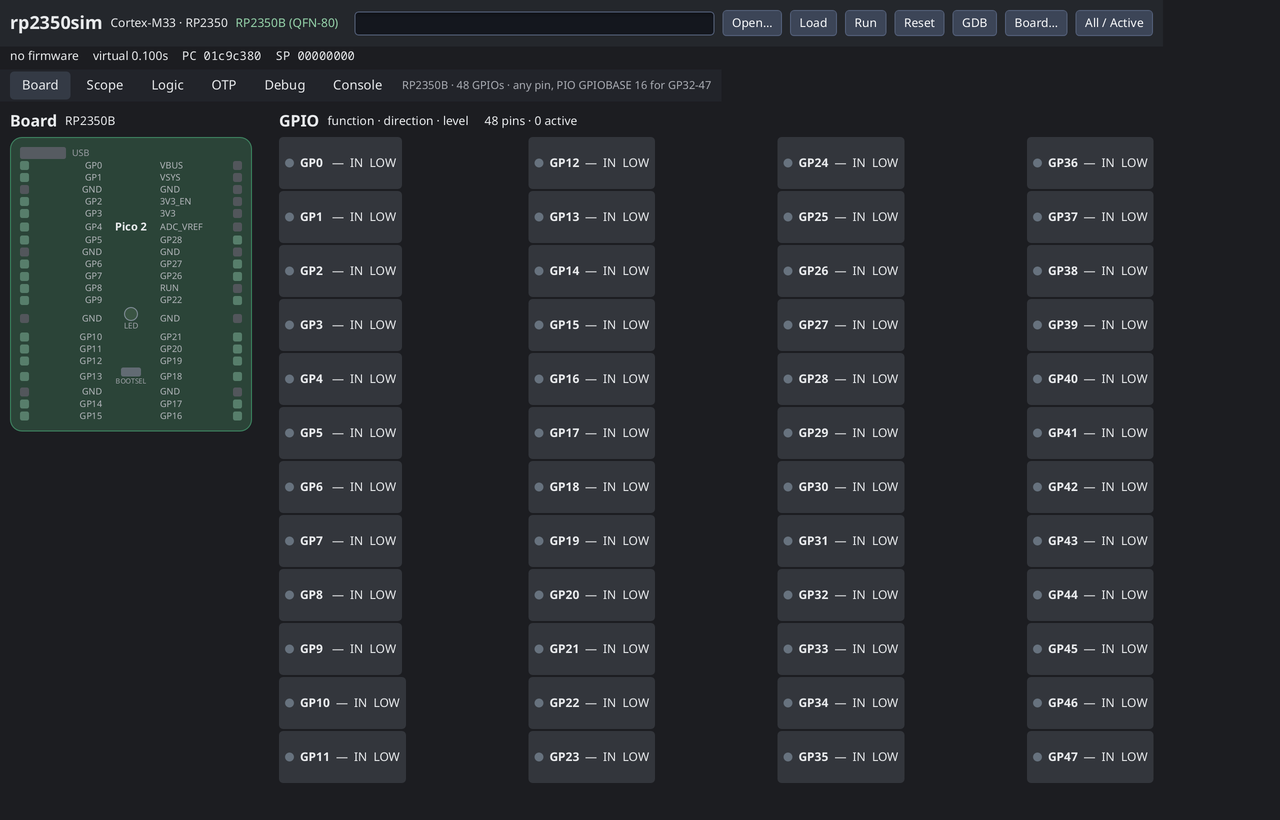
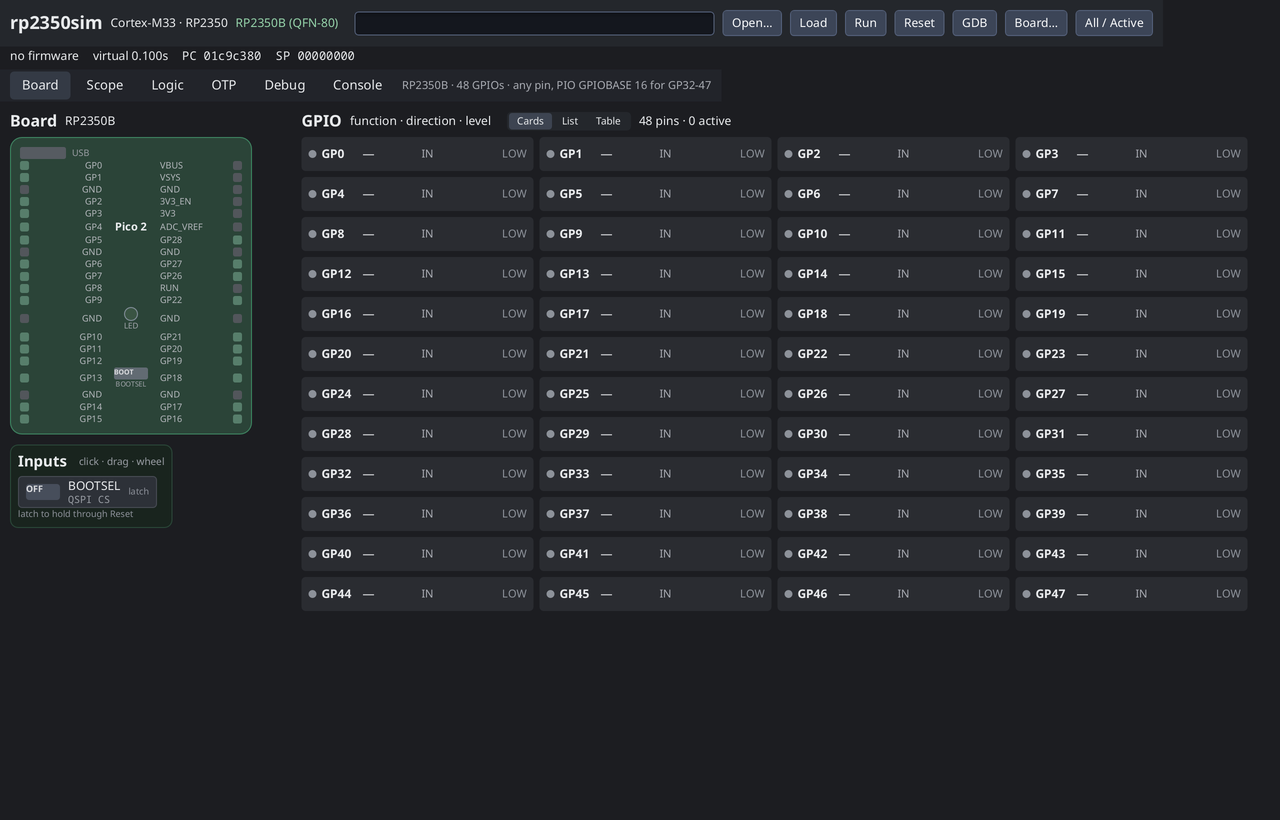
docs: refresh every guide screenshot
Regenerate all docs images with the uniform Cards GPIO layout and the
current tabs. The render script now also covers the picker, LCD, sensors,
WS2812, PSRAM, OTP, debug, bus, Ethernet and Wi-Fi views, runs from the
repo root so toolbar paths stay relative, and starts a temporary
127.0.0.1:9000 echo server for the network captures. The docs:images
task builds the firmware those captures need.

diff --git a/docs/ui.md b/docs/ui.md
@@ -443,9 +443,10 @@ rp2350sim-ui --board pico2-bus --tab bus --bus-connect \
 ```
 
 `task ui:ota` opens the same setup live; `task ui:ota-png` writes
-`build/ui-ota.png`. The guide screenshots for DVI, MIDI, audio, scope, logic,
-RP2350B, USB and OTA are regenerated with `task docs:images` (rendered at 2x and
-downscaled to 1280×820).
+`build/ui-ota.png`. Every guide screenshot (picker, Board, inputs, LCD,
+sensors, tabs, DVI, MIDI, audio, scope, logic, OTA) is regenerated with
+`task docs:images` (rendered at 2x and downscaled to 1280×820). The Ethernet
+and Wi-Fi captures start a temporary echo server on 127.0.0.1:9000.
 
 ## Keyboard
 
